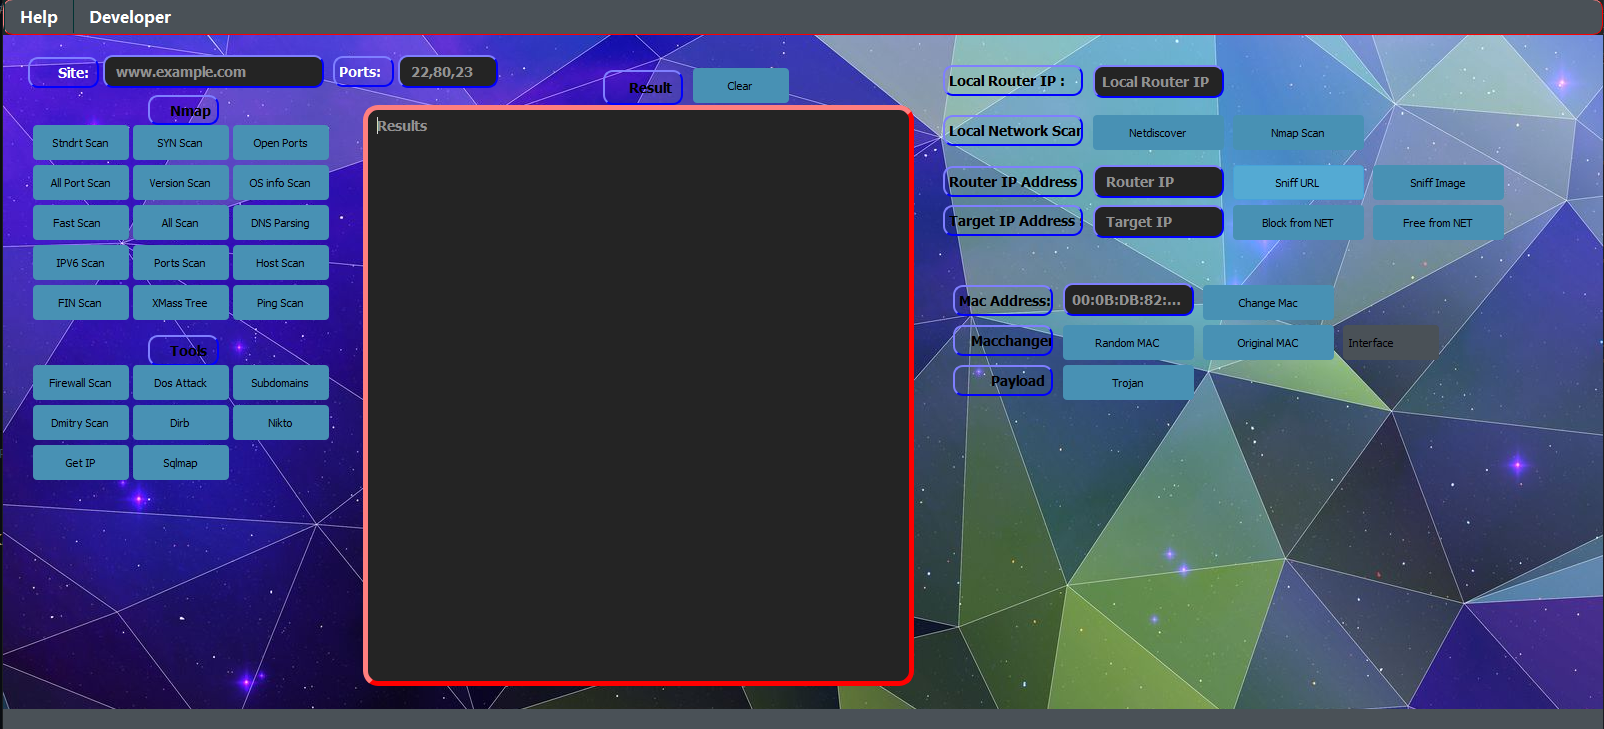
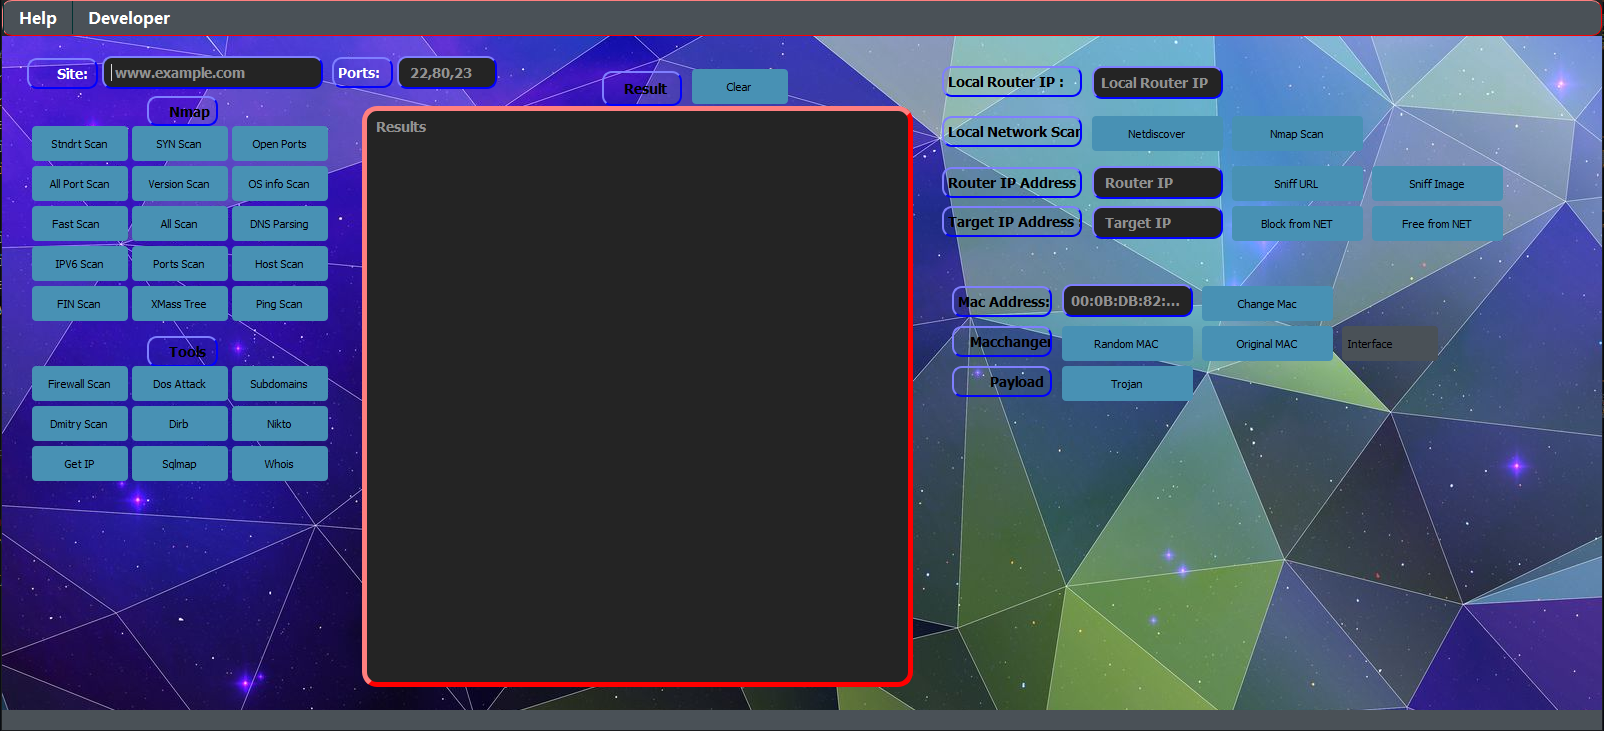
Riglsable

diff --git a/Riglsable/Riglsable.py b/Riglsable/Riglsable.py
@@ -8,7 +8,7 @@ from PyQt5.QtGui import *
 from PyQt5.QtCore import *
 from PyQt5.QtWidgets import *
 import socket
-
+import sys
 class Ui_MainWindow(object):
 
     def setupUi(self, MainWindow):
@@ -108,7 +108,7 @@ class Ui_MainWindow(object):
         self.plainTextEdit_result = QtWidgets.QPlainTextEdit(self.centralwidget)
         self.plainTextEdit_result.setGeometry(QtCore.QRect(360, 70, 551, 581))
         self.plainTextEdit_result.setObjectName("plainTextEdit_result")
-        self.plainTextEdit_result.setStyleSheet("border-radius:15px;""font:bold 14px;""border-style:outset;""border-width:5px;""border-color:red;")
+        self.plainTextEdit_result.setStyleSheet("color:white;""border-radius:15px;""font:bold 14px;""border-style:outset;""border-width:5px;""border-color:red;")
         self.plainTextEdit_result.setPlaceholderText("Results")
 
         self.lineEdit_port = QtWidgets.QLineEdit(self.centralwidget)
@@ -341,6 +341,12 @@ class Ui_MainWindow(object):
         self.pushButton_sqlmap.setObjectName("pushButton_sqlmap")
         self.pushButton_sqlmap.clicked.connect(self.sqlmap)
         self.pushButton_sqlmap.setStyleSheet("color : black;")
+
+        self.pushButton_whois = QtWidgets.QPushButton(self.centralwidget)
+        self.pushButton_whois.setGeometry(QtCore.QRect(230, 410, 96, 35))
+        self.pushButton_whois.setObjectName("pushButton_whois")
+        self.pushButton_whois.clicked.connect(self.whois)
+        self.pushButton_whois.setStyleSheet("color : black;")
 ########################################---------Buttons-------########################################
 ########################################---------Raise---------########################################
         self.label_wallpaper.raise_()
@@ -391,6 +397,7 @@ class Ui_MainWindow(object):
         self.pushButton_free_net.raise_()
         self.pushButton_sniff_url.raise_()
         self.label_macchanger.raise_()
+        self.pushButton_whois.raise_()
         self.label_local_network_scan.raise_()
         self.pushButton_netdiscover.raise_()
         self.pushButton_nmap_scan.raise_()
@@ -436,6 +443,7 @@ class Ui_MainWindow(object):
         self.pushButton_nmap_6.setText(_translate("MainWindow", "OS info Scan"))
         self.pushButton_nmap_7.setText(_translate("MainWindow", "Fast Scan  "))
         self.pushButton_nmap_8.setText(_translate("MainWindow", "All Scan"))
+        self.pushButton_whois.setText(_translate("MainWindow", "Whois"))
         self.pushButton_mac_hand.setText(_translate("MainWindow", "Change Mac"))
         self.pushButton_nmap_9.setText(_translate("MainWindow", "DNS Parsing"))
         self.pushButton_nmap_10.setText(_translate("MainWindow", "IPV6 Scan"))
@@ -466,7 +474,7 @@ class Ui_MainWindow(object):
         self.label_site.setText(_translate("MainWindow", "      Site:"))
         self.label_nmap.setText(_translate("MainWindow", "    Nmap"))
         self.label_tools.setText(_translate("MainWindow", "    Tools"))
-        self.label_result.setText(_translate("MainWindow", "     Result"))
+        self.label_result.setText(_translate("MainWindow", "    Result"))
         self.label_router_ip_address.setText(_translate("MainWindow", "Router IP Address :"))
         self.label_target_ip_address.setText(_translate("MainWindow", "Target IP Address :"))
         self.label_macchanger.setText(_translate("MainWindow", "   Macchanger"))
@@ -1459,7 +1467,7 @@ class Ui_MainWindow(object):
                     self.plainTextEdit_result.clear()
                     self.plainTextEdit_result.setStyleSheet("color:white;")
                     self.plainTextEdit_result.insertPlainText("Changing mac address,please wait...")
-                    os.system("macchanger -r {}".format(self.combobox.currentText()))
+                    os.system("macchanger -r {} > output.txt".format(self.combobox.currentText()))
                     os.system("ifconfig {} down".format(self.combobox.currentText()))
                     time.sleep(1)
                     os.system("ifconfig {} up".format(self.combobox.currentText()))
@@ -1470,6 +1478,10 @@ class Ui_MainWindow(object):
                     msg.setText("Mac address changed successfully (RANDOM MAC ADDRESS)")
                     msg.exec_()
                     self.plainTextEdit_result.clear()
+                    with open("output.txt","r+") as file:
+                        info=file.read()
+                        self.plainTextEdit_result.clear()
+                        self.plainTextEdit_result.insertPlainText(info)
                 elif reply==QMessageBox.No:
                     msg1 = QMessageBox()
                     msg1.setWindowTitle("Warning")
@@ -1502,7 +1514,7 @@ class Ui_MainWindow(object):
                     self.plainTextEdit_result.clear()
                     self.plainTextEdit_result.setStyleSheet("color:white;")
                     self.plainTextEdit_result.insertPlainText("Changing mac address,please wait...")
-                    os.system("macchanger -p {}".format(self.combobox.currentText()))
+                    os.system("macchanger -p {} > output.txt".format(self.combobox.currentText()))
                     os.system("ifconfig {} down".format(self.combobox.currentText()))
                     time.sleep(1)
                     os.system("ifconfig {} up".format(self.combobox.currentText()))
@@ -1513,6 +1525,10 @@ class Ui_MainWindow(object):
                     msg.setText("Mac address changed successfully (Original MAC ADDRESS)")
                     msg.exec_()
                     self.plainTextEdit_result.clear()
+                    with open("output.txt","r+") as file:
+                        info=file.read()
+                        self.plainTextEdit_result.clear()
+                        self.plainTextEdit_result.insertPlainText(info)
                 elif reply==QMessageBox.No:
                     msg1 = QMessageBox()
                     msg1.setWindowTitle("Warning")
@@ -1552,7 +1568,7 @@ class Ui_MainWindow(object):
                     self.plainTextEdit_result.clear()
                     self.plainTextEdit_result.setStyleSheet("color:white;")
                     self.plainTextEdit_result.insertPlainText("Changing mac address,please wait...")
-                    os.system("macchanger -m {} {}".format(self.lineEdit_mac.text(),self.combobox.currentText()))
+                    os.system("macchanger -m {} {} > output.txt".format(self.lineEdit_mac.text(),self.combobox.currentText()))
                     os.system("ifconfig {} down".format(self.combobox.currentText()))
                     time.sleep(1)
                     os.system("ifconfig {} up".format(self.combobox.currentText()))
@@ -1560,10 +1576,14 @@ class Ui_MainWindow(object):
                     msg.setWindowTitle("Information")
                     msg.setBaseSize(300,300)
                     msg.setIcon(QMessageBox.Information)
-                    msg.setText("Mac address changed successfully (Original MAC ADDRESS)")
+                    msg.setText("Mac address changed successfully")
                     msg.exec_()
                     self.plainTextEdit_result.clear()
                     self.lineEdit_mac.clear()
+                    with open("output.txt","r+") as file:
+                        info=file.read()
+                        self.plainTextEdit_result.clear()
+                        self.plainTextEdit_result.insertPlainText(info)
                 elif reply==QMessageBox.No:
                     msg1 = QMessageBox()
                     msg1.setWindowTitle("Warning")
@@ -1929,6 +1949,91 @@ class Ui_MainWindow(object):
                     msg6.setIcon(QMessageBox.Critical)
                     msg6.setText("Sqlmap could not be started")
                     msg6.exec_()
+        except:
+            msg1 = QMessageBox()
+            msg1.setWindowTitle("Warning")
+            msg1.setBaseSize(300,300)
+            msg1.setIcon(QMessageBox.Critical)
+            msg1.setText("Error,something went wrong.Please Try Again")
+            msg1.exec_()
+    def whois(self):
+        try:
+            check=self.lineEdit_site.text().startswith("www.")
+            if self.lineEdit_site.text()=="":
+                msg5 = QMessageBox()
+                msg5.setWindowTitle("Information")
+                msg5.setBaseSize(300,300)
+                msg5.setIcon(QMessageBox.Warning)
+                msg5.setText("Please enter the site adress or IP adress!")
+                msg5.exec_()
+            elif self.lineEdit_site.text().startswith("http://"):
+                msg1 = QMessageBox()
+                msg1.setWindowTitle("Warning")
+                msg1.setBaseSize(300,300)
+                msg1.setIcon(QMessageBox.Information)
+                msg1.setText("Whois lookup loading,please wait.")
+                msg1.exec_()
+                self.url=self.lineEdit_site.text()[7:]
+                self.ip_adress=socket.gethostbyname(self.url)
+                os.system("whois {} > output.txt".format(self.ip_adress))
+                with open("output.txt","r+") as file:
+                    info=file.read()
+                    self.plainTextEdit_result.clear()
+                    self.plainTextEdit_result.insertPlainText(info)
+            elif self.lineEdit_site.text().startswith("https://"):
+                msg1 = QMessageBox()
+                msg1.setWindowTitle("Warning")
+                msg1.setBaseSize(300,300)
+                msg1.setIcon(QMessageBox.Information)
+                msg1.setText("Whois lookup loading,please wait.")
+                msg1.exec_()
+                self.url=self.lineEdit_site.text()[8:]
+                self.ip_adress=socket.gethostbyname(self.url)
+                os.system("whois {}".format(self.ip_adress))
+                with open("output.txt","r+") as file:
+                    info=file.read()
+                    self.plainTextEdit_result.clear()
+                    self.plainTextEdit_result.insertPlainText(info)
+            elif self.lineEdit_site.text().startswith("www."):
+                msg1 = QMessageBox()
+                msg1.setWindowTitle("Warning")
+                msg1.setBaseSize(300,300)
+                msg1.setIcon(QMessageBox.Information)
+                msg1.setText("Whois lookup loading,please wait.")
+                msg1.exec_()
+                self.url=self.lineEdit_site.text()
+                self.ip_adress=socket.gethostbyname(self.url)
+                os.system("whois {} > output.txt".format(self.ip_adress))
+                with open("output.txt","r+") as file:
+                    info=file.read()
+                    self.plainTextEdit_result.clear()
+                    self.plainTextEdit_result.insertPlainText(info)
+            elif check==False:
+                msg1 = QMessageBox()
+                msg1.setWindowTitle("Warning")
+                msg1.setBaseSize(300,300)
+                msg1.setIcon(QMessageBox.Information)
+                msg1.setText("Whois lookup loading,please wait.")
+                msg1.exec_()
+                self.url="www."+self.lineEdit_site.text()
+                self.ip_adress=socket.gethostbyname(self.url)
+                os.system("whois {} > output.txt".format(self.ip_adress))
+                with open("output.txt","r+") as file:
+                    info=file.read()
+                    self.plainTextEdit_result.clear()
+                    self.plainTextEdit_result.insertPlainText(info)
+            else:
+                msg1 = QMessageBox()
+                msg1.setWindowTitle("Warning")
+                msg1.setBaseSize(300,300)
+                msg1.setIcon(QMessageBox.Information)
+                msg1.setText("Whois lookup loading,please wait.")
+                msg1.exec_()
+                os.system("whois {} > output.txt".format(self.lineEdit_site.text()))
+                with open("output.txt","r+") as file:
+                    info=file.read()
+                    self.plainTextEdit_result.clear()
+                    self.plainTextEdit_result.insertPlainText(info)     
         except:
             msg1 = QMessageBox()
             msg1.setWindowTitle("Warning")
